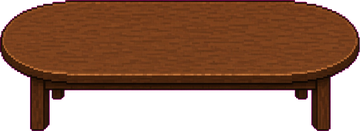
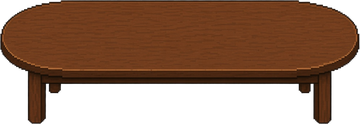
pixel map: half-scale meetings, locked oval table, forge=智子 size
- All meeting vignettes use bottom-room oval table; table+people ~½ prior size
- Unify meeting stage to 磁鐵改靚 standard; MEETING_TABLE lock; black laptops only
- 藍圖官 middle faces camera/table center; name tags in empty margins
- forge-desk content footprint matched under 智子 box; office sprite box unified

diff --git a/ai-office-pixel-map.html b/ai-office-pixel-map.html
@@ -222,9 +222,12 @@
       pointer-events: none;
     }
     .sprite {
-      width: 128px;
+      /* Visual size locked to 智子 footprint (skill); all desk PNGs share this box */
+      width: 118px;
       max-width: 100%;
-      height: auto;
+      height: 118px;
+      object-fit: contain;
+      object-position: bottom center;
       border: none;
       border-radius: 0;
       background: transparent;
@@ -301,7 +304,7 @@
     /* Meeting rooms: full width; dialogue same height as offices; table zone below only */
     .room.meeting {
       grid-column: 1 / -1;
-      min-height: 560px; /* taller so oval + seats fit under same-height dialogue */
+      min-height: 530px; /* dialogue ends ~306 + gap + half-scale vignette stage */
       cursor: default;
     }
     .room.meeting:hover {
@@ -351,8 +354,8 @@
       left: 50%;
       top: 48%;
       transform: translate(-50%, -50%);
-      /* ~2.4× one seated sprite — fits up to 3 along one edge */
-      width: min(200px, 48%);
+      /* Locked oval = furn-meeting-table-oval (磁鐵改靚 standard); half prior display */
+      width: min(100px, 36%);
       height: auto;
       z-index: 3;
       image-rendering: pixelated;
@@ -433,18 +436,20 @@
     .seat.front.face-in-left .sprite { transform: scaleX(1); }
 
 
-    /* Composed meeting vignette (preferred): one scene, face center, shared scale */
+    /* Meeting vignette: size standard = bottom room (Parsecreation 磁鐵改靚).
+       Table+people assets are half-padded; stage sized so group reads ~½ prior full-bleed. */
     .meeting-stage.vignette-mode {
-      width: min(520px, 88%);
-      height: 230px;
-      bottom: 8px;
+      /* bottom-room (磁鐵改靚) size standard — ~½ prior full-bleed people size */
+      width: min(400px, 76%);
+      height: 175px;
+      bottom: 12px;
       position: absolute;
       left: 50%;
       transform: translateX(-50%);
     }
     .meeting-vignette {
       max-width: 100%;
-      max-height: 210px;
+      max-height: 165px;
       width: auto;
       height: auto;
       object-fit: contain;
@@ -455,14 +460,14 @@
       position: relative;
       z-index: 1;
     }
-    /* Name labels beside each head (percent of stage) */
+    /* Name labels in empty margin only — never overlap dialogue / sprites / table */
     .meet-name {
       position: absolute;
       transform: translate(-50%, -100%);
-      font-size: 0.5rem;
+      font-size: 0.48rem;
       line-height: 1.1;
       color: #0f172a;
-      background: rgba(255,255,255,.82);
+      background: rgba(255,255,255,.88);
       border-radius: 4px;
       padding: 1px 4px;
       white-space: nowrap;
@@ -478,7 +483,7 @@
     @media (max-width: 720px) {
       .room { min-height: 380px; }
       .desk-zone { width: 100px; }
-      .sprite { width: 96px; }
+      .sprite { width: 96px; height: 96px; }
       .progress { font-size: 0.66rem; }
       .furn-cabinet { height: 40px; width: auto; max-width: 60%; image-rendering: pixelated; }
       .furn-whiteboard { width: 36px; right: 34px; }
@@ -487,11 +492,11 @@
       .furn-coffee { width: 120px; height: auto; }
       .progress { top: 96px; bottom: 70px; max-height: none; }
 
-      .room.meeting { min-height: 520px; }
-      .room.meeting .progress { height: 200px; bottom: auto; }
-      .meeting-stage { height: 200px; width: min(380px, 92%); }
-      .meeting-stage.vignette-mode { height: 210px; width: min(420px, 94%); }
-      .meeting-vignette { max-height: 180px; }
+      .room.meeting { min-height: 500px; }
+      .room.meeting .progress { height: 190px; bottom: auto; }
+      .meeting-stage { height: 150px; width: min(340px, 90%); }
+      .meeting-stage.vignette-mode { height: 155px; width: min(360px, 90%); }
+      .meeting-vignette { max-height: 145px; }
       .meeting-table { width: min(170px, 50%); }
       .seat { width: 64px; }
       .seat .sprite { width: 60px; }
@@ -549,6 +554,7 @@
 
     /* Meeting rooms: same bot may appear in office + each meeting they belong to.
        seat: composed seated+chair sprite base (append -s / -n by side). */
+    /* Size standard = bottom room 磁鐵改靚. Oval table locked via MEETING_TABLE + vignette refs. */
     const MEETINGS = {
       top: [
         {
@@ -557,8 +563,9 @@
           tint: '#ddd6fe',
           vignette: 'meeting-vignette-2.png',
           members: [
-            { name: '智子', seat: 'zhizi-seat', tag: { left: 34, top: 12 } },
-            { name: '決策官', seat: 'decision-seat', tag: { left: 62, top: 10 } }
+            /* tags in vignette top empty margin (half-pad), clear of dialogue */
+            { name: '智子', seat: 'zhizi-seat', tag: { left: 38, top: 8 } },
+            { name: '決策官', seat: 'decision-seat', tag: { left: 62, top: 6 } }
           ],
           blurb: '會議室 · 群組 · 智子、決策官'
         }
@@ -570,10 +577,11 @@
           tint: '#a5f3fc',
           vignette: 'meeting-vignette-4.png',
           members: [
-            { name: '智子', seat: 'zhizi-seat', tag: { left: 28, top: 8 } },
-            { name: '藍圖官', seat: 'blueprint-seat', tag: { left: 58, top: 6 } },
-            { name: '鑄造使', seat: 'forge-seat', tag: { left: 30, top: 58 } },
-            { name: '文案官', seat: 'copywriter-seat', tag: { left: 62, top: 56 } }
+            { name: '智子', seat: 'zhizi-seat', tag: { left: 36, top: 6 } },
+            { name: '藍圖官', seat: 'blueprint-seat', tag: { left: 64, top: 6 } },
+            /* near-side: side empty margins of half-padded vignette */
+            { name: '鑄造使', seat: 'forge-seat', tag: { left: 22, top: 70 } },
+            { name: '文案官', seat: 'copywriter-seat', tag: { left: 78, top: 70 } }
           ],
           blurb: '會議室 · 群組 · 智子、藍圖官、鑄造使、文案官'
         },
@@ -583,19 +591,21 @@
           tint: '#fbcfe8',
           vignette: 'meeting-vignette-3.png',
           members: [
-            { name: '智子', seat: 'zhizi-seat', tag: { left: 24, top: 10 } },
-            { name: '藍圖官', seat: 'blueprint-seat', tag: { left: 48, top: 6 } },
-            { name: '文案官', seat: 'copywriter-seat', tag: { left: 72, top: 10 } }
+            { name: '智子', seat: 'zhizi-seat', tag: { left: 32, top: 6 } },
+            { name: '藍圖官', seat: 'blueprint-seat', tag: { left: 50, top: 4 } },
+            { name: '文案官', seat: 'copywriter-seat', tag: { left: 68, top: 6 } }
           ],
           blurb: '會議室 · 群組 · 智子、藍圖官、文案官'
         }
       ]
     };
 
-    const FURN_V = 'furn29';
-    const SPRITE_V = 'meet11';
-    const SEAT_V = 'seat10';
-    const VIGNETTE_V = 'vig3';
+    /* Locked meeting table asset — oval from bottom room 磁鐵改靚; do not swap shape. */
+    const MEETING_TABLE = 'furn-meeting-table-oval.png';
+    const FURN_V = 'furn30';
+    const SPRITE_V = 'meet12';
+    const SEAT_V = 'seat11';
+    const VIGNETTE_V = 'vig6';
 
 
     function checker(tint) {
@@ -637,10 +647,9 @@
     }
 
     function propFile(side, i) {
-      /* Prop faces the person: back row → lid toward far side; front → screen toward us */
-      const useLaptop = (i % 2 === 0);
-      if (side === 'back') return useLaptop ? 'laptop-back.png' : 'notebook-face-s.png';
-      return useLaptop ? 'laptop-face-n.png' : 'notebook-face-n.png';
+      /* Black laptops only — no notebooks (Look 2026-10-25). */
+      if (side === 'back') return 'laptop-back.png';
+      return 'laptop-face-n.png';
     }
 
     function seatHtml(m, side, leftPct, rowN, idx) {
@@ -690,7 +699,7 @@
         stage = `
           <div class="meeting-stage${solo}" aria-hidden="true">
             ${backSeats}
-            <img class="meeting-table" src="pixel-assets/furn-meeting-table-oval.png?v=${FURN_V}" alt="" />
+            <img class="meeting-table" src="pixel-assets/${MEETING_TABLE}?v=${FURN_V}" alt="" />
             ${props}
             ${frontSeats}
           </div>`;
